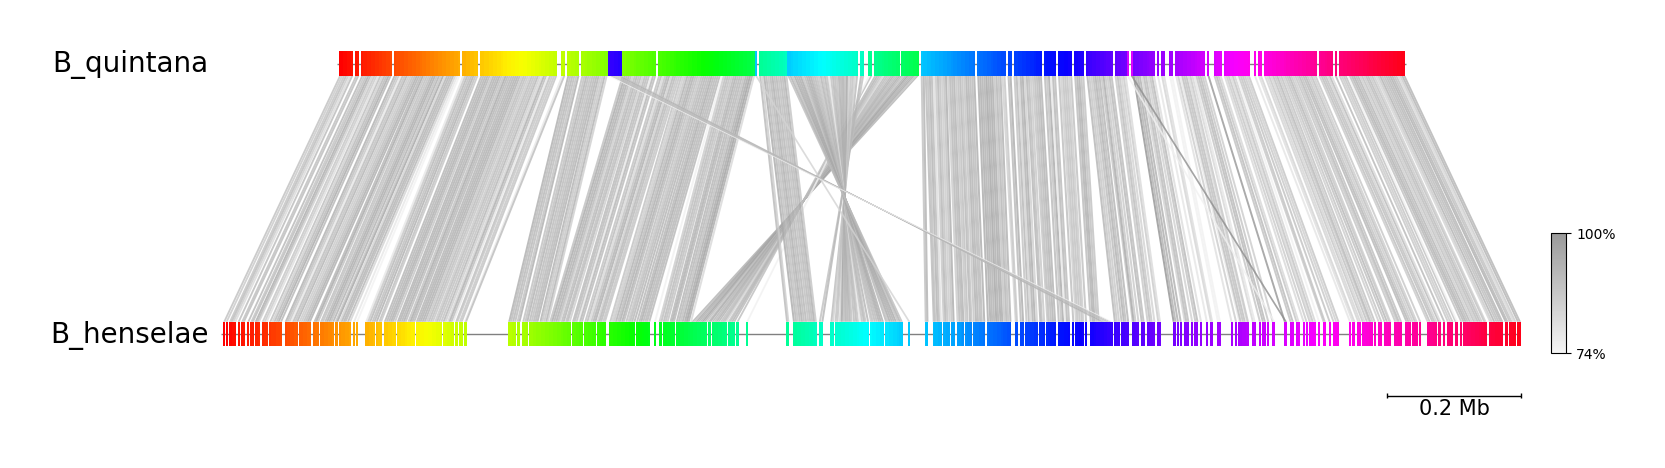
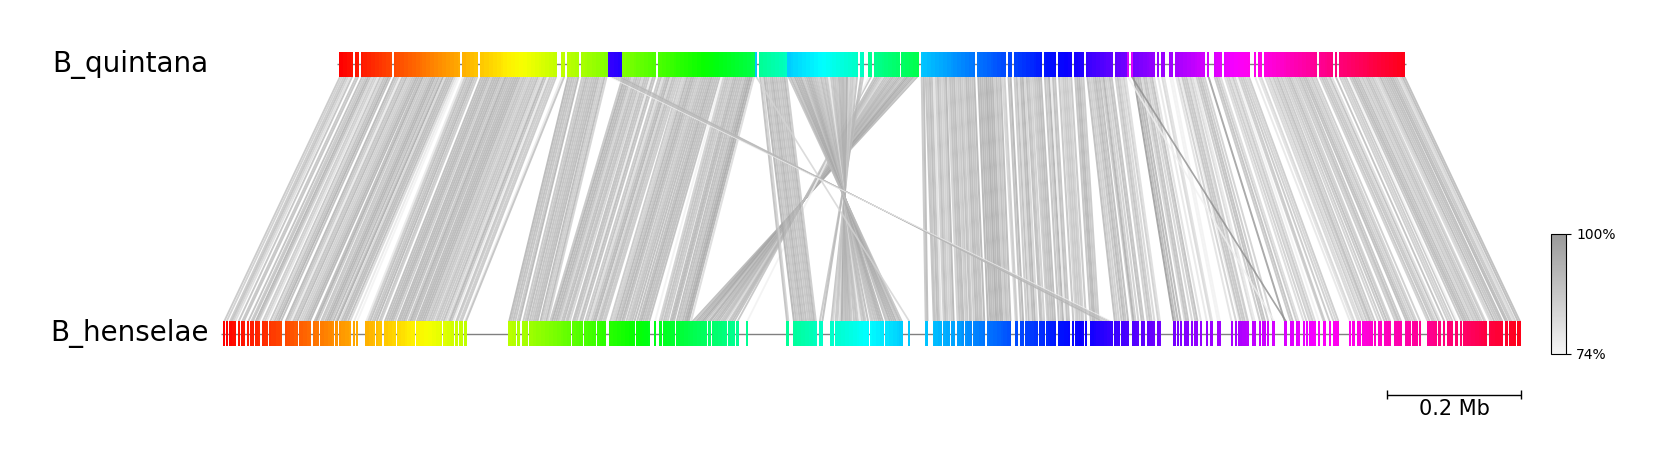
Update FastANI visualize script, images
- Update for v0.2.0
- Update output images

diff --git a/notebooks/fastANI/visualize.py b/notebooks/fastANI/visualize.py
@@ -3,7 +3,6 @@ import argparse
 import csv
 from pathlib import Path
 
-import numpy as np
 from Bio import SeqIO
 from pygenomeviz import GenomeViz
 from pygenomeviz.utils import ColorCycler
@@ -57,8 +56,7 @@ def main():
     track2 = gv.add_feature_track(genome_name2, seq_length2)
 
     ColorCycler.set_cmap(cmap)  # "hsv", "viridis", "jet", etc...
-    colormap, data_num = ColorCycler.cmap, len(fastani_results)
-    colors = [colormap(int(i)) for i in np.linspace(0, colormap.N, data_num)]
+    colors = ColorCycler.get_color_list(len(fastani_results))
 
     min_identity = int(min([res[2] for res in fastani_results]))
     for res, color in zip(fastani_results, colors):
